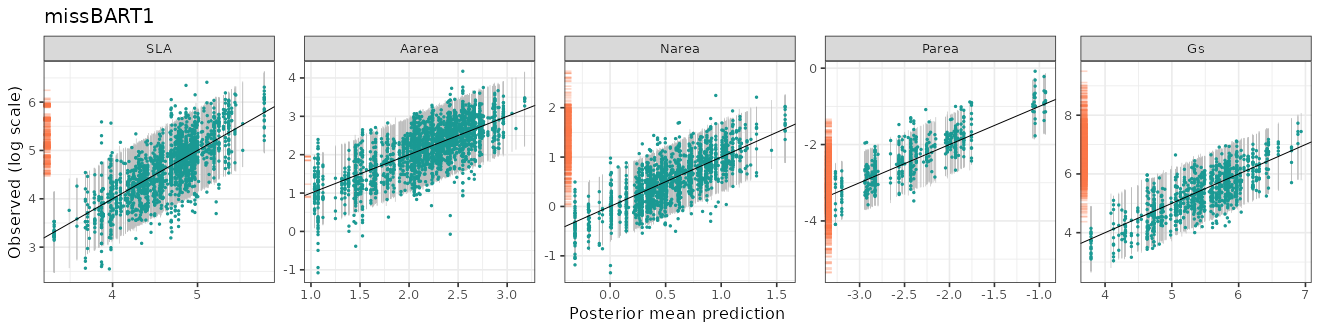
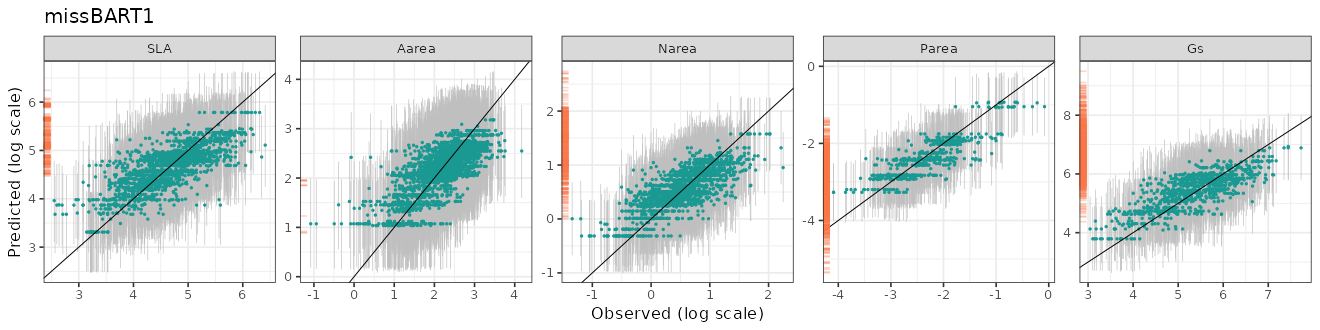
Real data article: plot predictions against observations
Observed values now go on the horizontal axis and predictions, with
their 95% prediction intervals, on the vertical axis.

diff --git a/docs/articles/global-amax.html b/docs/articles/global-amax.html
@@ -138,10 +138,16 @@ time).</p>
 <div class="section level2">
 <h2 id="fit-to-the-observed-responses">Fit to the observed responses<a class="anchor" aria-label="anchor" href="#fit-to-the-observed-responses"></a>
 </h2>
-<p>Posterior mean predictions against the observed values, with 95%
-prediction intervals. The rug on the vertical axis shows the posterior
-means of the imputed values. These correspond to Figure 5 of the
-paper.</p>
+<p>Each point is one observed response: its observed value is on the
+horizontal axis and the posterior mean prediction of the model is on the
+vertical axis. The grey vertical bars are the 95% prediction intervals,
+so a point is covered when its bar crosses the diagonal line. The orange
+rug on the vertical axis shows the posterior means of the imputed values
+for the missing responses, which have no observed value to plot them
+against. The points fall in horizontal bands because plants measured at
+the same site share the same covariates, and so the same prediction.
+These plots correspond to Figure 5 of the paper, with the axes
+swapped.</p>
 <p><img src="figures/amax_missBART1.png" class="r-plt" alt="" width="100%"><img src="figures/amax_missBART2.png" class="r-plt" alt="" width="100%"></p>
 <table class="table">
 <caption>In-sample root mean squared error and coverage of the 95%

diff --git a/docs/articles/global-amax.md b/docs/articles/global-amax.md
@@ -52,9 +52,15 @@ time).
 
 ## Fit to the observed responses
 
-Posterior mean predictions against the observed values, with 95%
-prediction intervals. The rug on the vertical axis shows the posterior
-means of the imputed values. These correspond to Figure 5 of the paper.
+Each point is one observed response: its observed value is on the
+horizontal axis and the posterior mean prediction of the model is on the
+vertical axis. The grey vertical bars are the 95% prediction intervals,
+so a point is covered when its bar crosses the diagonal line. The orange
+rug on the vertical axis shows the posterior means of the imputed values
+for the missing responses, which have no observed value to plot them
+against. The points fall in horizontal bands because plants measured at
+the same site share the same covariates, and so the same prediction.
+These plots correspond to Figure 5 of the paper, with the axes swapped.
 
 ![](figures/amax_missBART1.png)![](figures/amax_missBART2.png)
 
